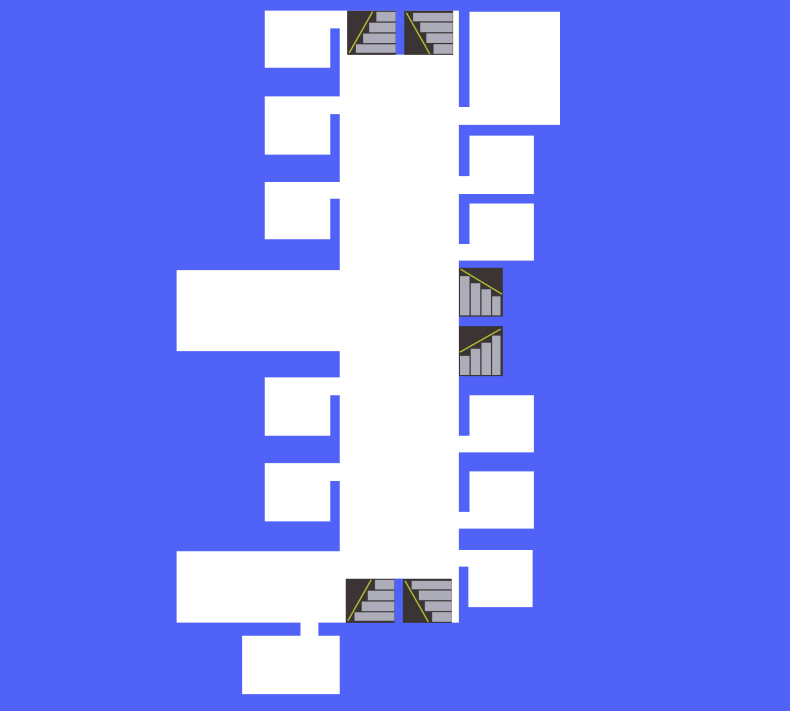
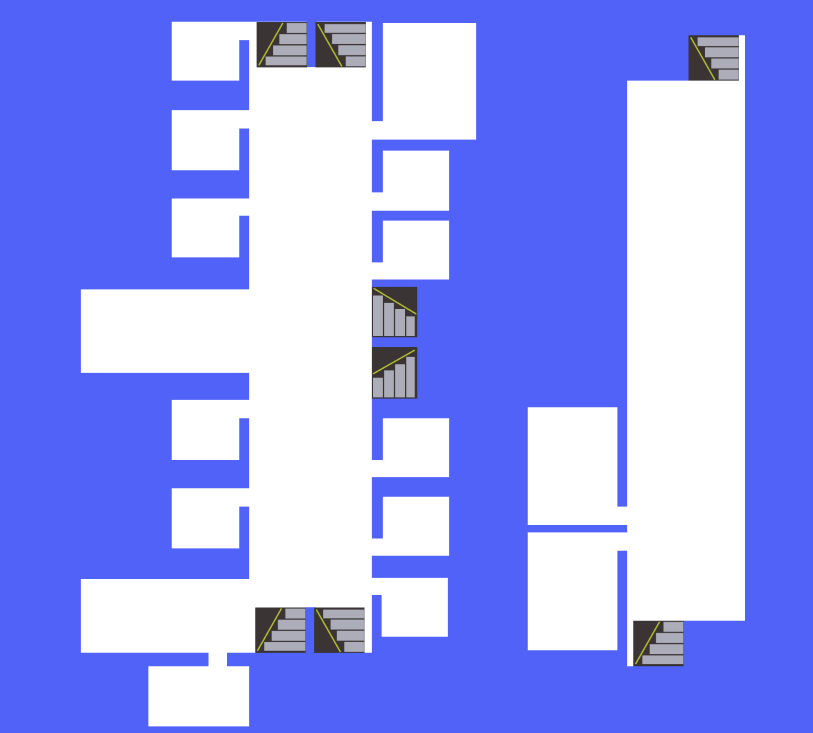
adding get classroom logic

diff --git a/src/fttmap/mapafttgoogleController.java b/src/fttmap/mapafttgoogleController.java
@@ -8,15 +8,26 @@ package fttmap;
 import DAO.Excel;
 import Service.ExcelController;
 import java.net.URL;
+import java.text.ParseException;
 import java.text.SimpleDateFormat;
 import java.util.Calendar;
 import java.util.Date;
 import java.util.ResourceBundle;
+import java.util.logging.Level;
+import java.util.logging.Logger;
 import javafx.fxml.FXML;
 import javafx.fxml.Initializable;
+import javafx.geometry.Insets;
+import javafx.scene.control.Alert;
 import javafx.scene.control.Button;
+import javafx.scene.control.ButtonType;
 import javafx.scene.image.ImageView;
+import javafx.scene.layout.Background;
+import javafx.scene.layout.BackgroundFill;
+import javafx.scene.layout.CornerRadii;
 import javafx.scene.layout.Pane;
+import javafx.scene.paint.Color;
+import org.joda.time.DateTime;
 
 /**
  *
@@ -28,51 +39,89 @@ public class mapafttgoogleController implements Initializable {
     public void initialize(URL location, ResourceBundle resources) {
         
         String dayOfWeek = getDate();
+            System.out.println("dayOfWeek => " + dayOfWeek);
         String[][] dayMatrix = null;
         
         switch (dayOfWeek) {
-            case "Monday" :
+            case "Segunda-feira" :
                 dayMatrix = ExcelController.getDayMatrix(Excel.Day.MONDAY);
                 break;
-            case "Tuesday" :
+            case "Terça-feira" :
                 dayMatrix = ExcelController.getDayMatrix(Excel.Day.TUESDAY);
                 break;
-            case "Wednesday" :
+            case "Quarta-feira" :
                 dayMatrix = ExcelController.getDayMatrix(Excel.Day.WEDNESDAY);
                 break;
-            case "Thursday" :
+            case "Quinta-feira" :
                 dayMatrix = ExcelController.getDayMatrix(Excel.Day.THURSDAY);
                 break;
-            case "Friday" :
+            case "Sexta-feira" :
                 dayMatrix = ExcelController.getDayMatrix(Excel.Day.FRIDAY);
                 break;
-            case "Saturday" :
+            case "Sábado" :
                 dayMatrix = ExcelController.getDayMatrix(Excel.Day.SATURDAY);
                 break;
         }
         
         if (dayMatrix != null) {
-            Calendar now = Calendar.getInstance();
-            now.get(Calendar.HOUR_OF_DAY);
-            SimpleDateFormat sdf = new SimpleDateFormat("dd/M/yyyy");
+            DateTime now = new DateTime();
+//            System.out.println("now.getHourOfDay() => " + now.getHourOfDay());
             
+            SimpleDateFormat sdf = new SimpleDateFormat("dd/M/yyyy");
             String today = sdf.format(new Date());
+//            System.out.println("today => " + today);
             
             String numeroSala = "";
+            SimpleDateFormat parser = new SimpleDateFormat("dd/M/yyyy HH:mm:ss");
             
             for (Integer i = 0; i < 4; i++) {
-                SimpleDateFormat timeBegin = new SimpleDateFormat(today + " " + dayMatrix[i][Excel.horaInicio] + ":00");
-                SimpleDateFormat timeEnd = new SimpleDateFormat(today + " " + dayMatrix[i][Excel.horaTermino] + ":00");
-                if (now.before(timeBegin)) {
-                    numeroSala = dayMatrix[i][Excel.sala];
-                    break;
-                } else if (now.before(timeEnd)) {
-                    numeroSala = dayMatrix[i][Excel.sala];
-                    break;
+//            System.out.println("dayMatrix[i][Excel.horaInicio] => " + dayMatrix[i][Excel.horaInicio]);
+                Date timeBegin = null;
+                try {
+                    timeBegin = parser.parse(today + " " + dayMatrix[i][Excel.horaInicio] + ":00");
+//                    System.out.println("timeBegin => " + timeBegin.toString());
+                } catch (ParseException ex) {
+                    Logger.getLogger(mapafttgoogleController.class.getName()).log(Level.SEVERE, null, ex);
+                }
+//            System.out.println("dayMatrix[i][Excel.horaTermino] => " + dayMatrix[i][Excel.horaTermino]);
+            
+                Date timeEnd = null;
+                try {
+                    timeEnd = parser.parse(today + " " + dayMatrix[i][Excel.horaTermino] + ":00");
+//                    System.out.println("timeEnd => " + timeEnd.toString());
+                } catch (ParseException ex) {
+                    Logger.getLogger(mapafttgoogleController.class.getName()).log(Level.SEVERE, null, ex);
+                }
+                
+                if (timeBegin != null && timeEnd != null) {
+//            System.out.println("now => " + now.toString());
+                    if (now.isBefore(timeBegin.getTime())) {
+                        numeroSala = dayMatrix[i][Excel.sala];
+                        break;
+                    } else if (now.isBefore(timeEnd.getTime())) {
+                        numeroSala = dayMatrix[i][Excel.sala];
+                        break;
+                    }
                 }
             }
+            System.out.println("numeroSala => " + numeroSala);
             
-            // get panel with classroom number
+//            BackgroundFill backgroundFill2 = new BackgroundFill(Color.GREEN, CornerRadii.EMPTY, Insets.EMPTY);
+//            Background bg2 = new Background(backgroundFill2);
+//            pn81.setBackground(bg2);
+            
+            if (!numeroSala.isEmpty()) {
+                Pane pn = getClassroomPaneInstance(numeroSala);
+                if (pn != null) {
+                    BackgroundFill backgroundFill = new BackgroundFill(Color.GREEN, CornerRadii.EMPTY, Insets.EMPTY);
+                    Background bg = new Background(backgroundFill);
+                    pn.setBackground(bg);
+                    getBlocoPaneByClassroomNumber(numeroSala).setVisible(true);
+                } else {
+                    Alert alert = new Alert(Alert.AlertType.WARNING, "O bloco para a sala " + numeroSala + " não está implementado!", ButtonType.OK);
+                    alert.showAndWait();
+                }
+            }
         }
         
     }
@@ -88,70 +137,120 @@ public class mapafttgoogleController implements Initializable {
         simpleDateformat = new SimpleDateFormat("EEEE"); // the day of the week spelled out completely
         return simpleDateformat.format(now);
  
-//        Calendar calendar = Calendar.getInstance();
-//        calendar.setTime(now);
-//        System.out.println(calendar.get(Calendar.DAY_OF_WEEK)); // the day of the week in numerical format
- 
     }
     
     @FXML
     private Button btnBloco1;
-    
     @FXML
     private Pane pnBloco1;
-     
     @FXML
     private Button btnBloco2;
-    
     @FXML
     private Pane pnBloco2;
-     
     @FXML
     private Button btnBloco3;
-    
     @FXML
     private Pane pnBloco3;
-     
     @FXML
     private Button btnBloco4;
-    
     @FXML
     private Pane pnBloco4;
-     
     @FXML
     private Button btnBloco5;
-    
     @FXML
     private Pane pnBloco5;
-     
     @FXML
     private Button btnBloco6;
-    
     @FXML
     private Pane pnBloco6;
-     
     @FXML
     private Button btnBloco7;
-    
     @FXML
     private Pane pnBloco7;
-     
     @FXML
     private Button btnBloco8;
-    
     @FXML
     private Pane pnBloco8;
     @FXML
     private Button btnBloco9;
-    
     @FXML
     private Pane pnBloco9;
-    
     @FXML
     private Button btnFTT;
-    
     @FXML
     private Pane pnFTT;
+    
+    private Pane getBlocoPaneByClassroomNumber(String number) {
+        
+        if (Integer.valueOf(number) > 73 && Integer.valueOf(number) < 89) {
+            return pnFTT;
+        }
+        return null;
+    }
+    
+    private Pane getClassroomPaneInstance(String number) {
+        
+        switch (number) {
+            case "74":
+                return pn74;
+            case "75":
+                return pn75;
+            case "76":
+                return pn76;
+            case "77":
+                return pn77;
+            case "78":
+                return pn78;
+            case "79":
+                return pn79;
+            case "80":
+                return pn80;
+            case "81":
+                return pn81;
+            case "82":
+                return pn82;
+            case "83":
+                return pn83;
+            case "84":
+                return pn84;
+            case "85":
+                return pn85;
+            case "87":
+                return pn87;
+            case "88":
+                return pn88;
+        }
+        return null;
+    }
+    
+    @FXML
+    private Pane pn74;
+    @FXML
+    private Pane pn75;
+    @FXML
+    private Pane pn76;
+    @FXML
+    private Pane pn77;
+    @FXML
+    private Pane pn78;
+    @FXML
+    private Pane pn79;
+    @FXML
+    private Pane pn80;
+    @FXML
+    private Pane pn81;
+    @FXML
+    private Pane pn82;
+    @FXML
+    private Pane pn83;
+    @FXML
+    private Pane pn84;
+    @FXML
+    private Pane pn85;
+    @FXML
+    private Pane pn87;
+    @FXML
+    private Pane pn88;
     
     void setAllNotVisible() {
         pnBloco1.setVisible(false);
